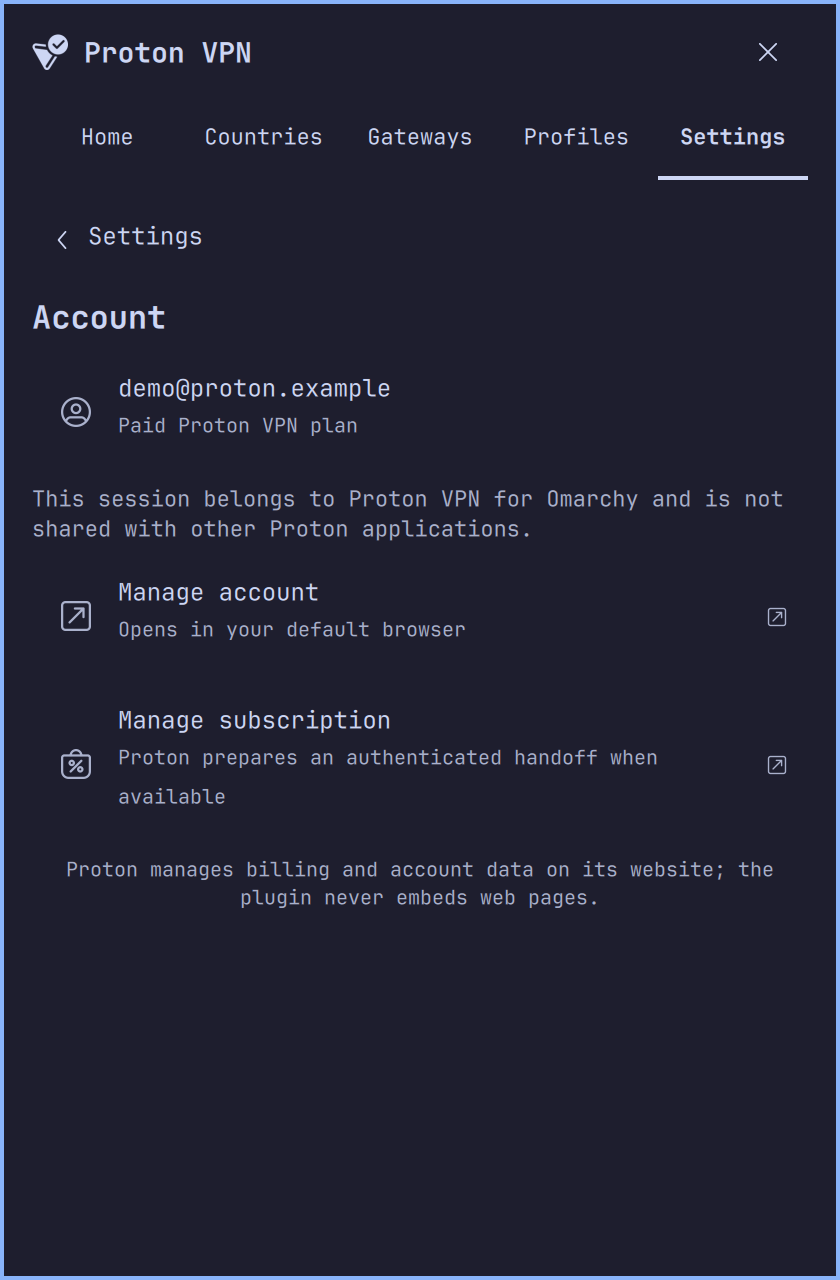
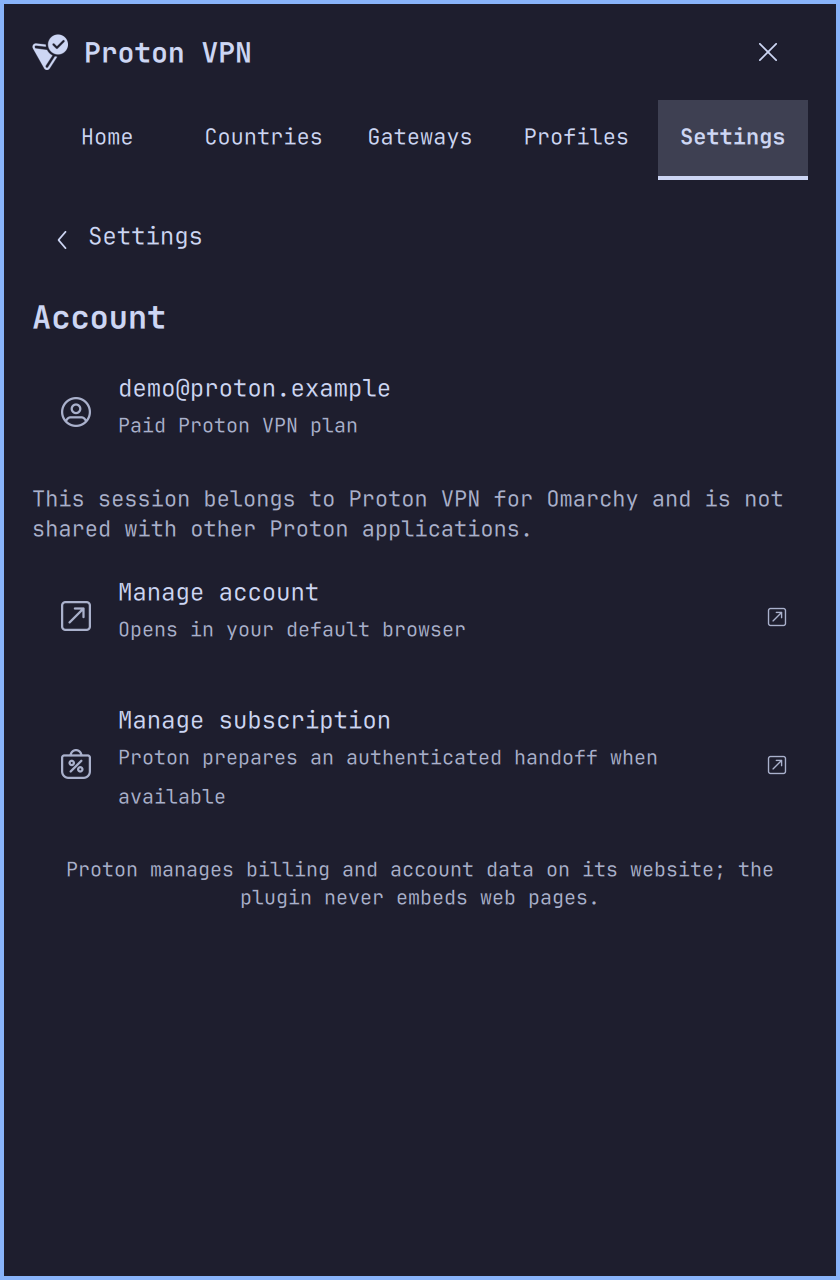
fix: preserve selected tab highlight without stuck focus paint

Changed region(s): [[0.7738, 0.0625, 0.9595, 0.1562]]

diff --git a/tests/qml/control-states-shell.qml b/tests/qml/control-states-shell.qml
@@ -54,7 +54,7 @@ ShellRoot {
         break
       case 1:
         check(workspace.route === 'locations', 'pointer changes page')
-        check(target.activeFocus && target.pointerFocus && noFrame(target) && target.color.a === 0, 'clicked tab retains focus without frame or dimming: ' + [target.activeFocus, target.pointerFocus, noFrame(target), target.color.a])
+        check(target.activeFocus && target.pointerFocus && noFrame(target) && target.color === Style.selectedFillFor(target.foreground, target.accent), 'clicked tab retains the native selected fill without a stuck focus frame or fill')
         search = find(workspace, 'Search country, city or server')
         check(search.height >= 40 && search.height <= 42, 'search is a single 40px row')
         searchWidth = search.width
@@ -72,7 +72,7 @@ ShellRoot {
         break
       case 4:
         check(workspace.currentPage.settingsSection === 'application', 'pointer changes settings section')
-        check(target.pointerFocus && noFrame(target) && target.color.a === 0, 'settings tabs use the same clean pointer state')
+        check(target.pointerFocus && noFrame(target) && target.color === Style.selectedFillFor(target.foreground, target.accent), 'settings tabs retain the native selected fill without stuck focus paint')
         events.keyClick(Qt.Key_Tab, Qt.NoModifier, -1)
         check(!target.activeFocus, 'Tab can leave a pointer-focused tab')
         click(find(workspace, 'Connection'))

diff --git a/components/ProtonButtonBase.qml b/components/ProtonButtonBase.qml
@@ -9,7 +9,6 @@ Ui.Button {
   property bool spaceHeld: false
   property bool pointerFocus: false
   property bool keyboardActivation: false
-  property bool filledSelection: true
   readonly property bool keyboardFocus: focusable && activeFocus && !pointerFocus
   readonly property bool keyboardPressed: spaceHeld && activeFocus && enabled
   // A pointer click may retain focus for keyboard navigation, without retaining
@@ -29,7 +28,7 @@ Ui.Button {
     target: root
     property: 'color'
     when: root.pointerFocus && !root.hot && !root.keyboardPressed
-    value: root.filledSelection && (root.selected || root.active)
+    value: root.selected || root.active
       ? Style.selectedFillFor(root.foreground, root.accent) : root.background
     restoreMode: Binding.RestoreBindingOrValue
   }

diff --git a/components/ProtonTabButton.qml b/components/ProtonTabButton.qml
@@ -1,13 +1,14 @@
 import QtQuick
 import qs.Commons
 
-// Selection belongs to the underline. Keyboard focus strengthens that same
-// indicator instead of adding a second frame around the destination.
+// Keep the native selected fill and underline. Hover/focus must not replace
+// that fill or add a second frame around the selected destination.
 ProtonButton {
   id: root
-  filledSelection: false
   borderSpec: Border.none()
   color: keyboardPressed ? Style.pressedFillFor(foreground, accent)
+    : selected ? Style.selectedFillFor(foreground, accent)
+    : hot ? Style.hoverFillFor(foreground, accent)
     : 'transparent'
   Accessible.role: Accessible.PageTab
   Accessible.selected: selected

diff --git a/docs/reviews/control-states.md b/docs/reviews/control-states.md
@@ -8,14 +8,14 @@ Backend, keyring and network behavior are outside this change.
 | Category | Evidence | Result |
 | --- | --- | --- |
 | Typography | Spanish/English tabs and compact search, including 320px renders | Tabs wrap within equal-width destinations; search keeps a stable accessible name |
-| Surfaces | Native button/cursor paint, click/focus tests, production renders | Pointer selection no longer leaves side frames; tabs use underlines |
+| Surfaces | Native button/cursor paint, click/focus tests, production renders | Pointer selection retains its native fill and underline without stuck hover/focus framing |
 | Animations | Existing 120ms button/page behavior and motion runtime fixture | Existing transitions pass; no new motion choreography |
 | Icons | Search magnifier, clear action and protocol rows | Existing native-sized assets; unnecessary feature-button icons removed |
 | Performance | Shared component changes and runtime suite | No polling, network or backend changes |
 
 | Severity | Location | Before | After | Why |
 | --- | --- | --- | --- | --- |
-| MEDIUM | ProtonButtonBase, PanelActionRow, ProtonBottomNavigation, ProtonSettingsView | Pointer clicks retained native keyboard borders/fills alongside selection | Pointer focus stays functional without persistent framing; keyboard keeps an explicit indicator; both tab groups share ProtonTabButton | Distinguish selection, hover and keyboard focus |
+| MEDIUM | ProtonButtonBase, PanelActionRow, ProtonBottomNavigation, ProtonSettingsView | Pointer clicks retained native keyboard borders/fills alongside selection | The original selected fill and underline remain; hover/focus no longer override the selected tab or leave a frame; keyboard keeps an explicit indicator | Distinguish selection, hover and keyboard focus |
 | MEDIUM | ProtonLocationsView, ProtonTextField | Tall caption-plus-input search, separate clear action that resized it, reserved empty progress text row | Single 40px search row with magnifier, internal clear action and thin progress line; form captions remain | Keep routine search compact and stable while typing |
 | MEDIUM | ProtonLocationsView | Four boxed feature buttons in a large grid | Compact wrapping single-choice controls with one selected fill | Reduce visual weight without losing selected state or radio semantics |
 | MEDIUM | ProtonWorkspace | Host top padding plus centered label in a 40px header row | Header hit area overlaps 10 logical pixels of the existing top inset | Remove accumulated whitespace while retaining the close target |
